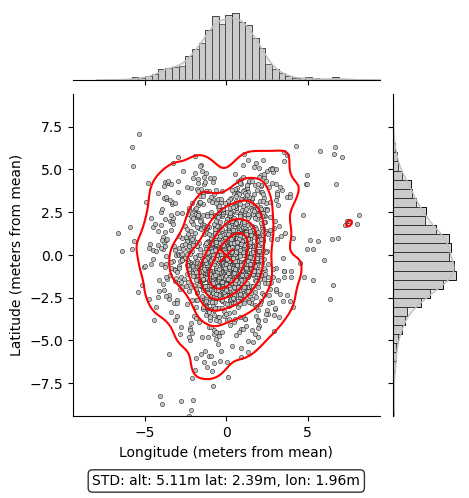
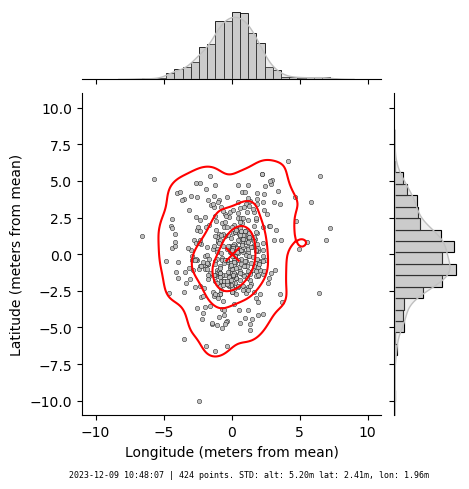
readme and images

diff --git a/README.md b/README.md
@@ -1,21 +1,41 @@
 # GPS Data Visualization Script
 
-This script reads GPS data from a JSON file generated by `gpsd` and `gpspipe`. It then generates a joint plot using Seaborn to visualize the latitude, longitude, and altitude changes. Additionally, it calculates and displays statistics on the plot.
+Scripts to analyze GPS JSON data generated by `gpsd` and `gpspipe` and make plots of position changes and satellite visibility over time. This is a modern alternative for [`gpsprof`](https://github.com/andersson/gpsd/blob/master/gpsprof).
 
-![sample_plot](plot-lat-lon.png)
+## Sample output
+
+
+|                          |                              |
+| :----------------------: | :--------------------------: |
+|   `gpsjsonplot-pos.py`   |                              |
+|  ![](plot-lat-lon.png)   |  ![](plot-lat-lon-200.png)   |
+|  `gpsjsonplot-sats.py`   |                              |
+| ![](plot-sattelites.png) | ![](plot-sattelites-200.png) |
+
+
 
 ## Prerequisites
 
-- Python 3.x
-- Required Python packages: `json`, `matplotlib`, `numpy`, `seaborn`
+- `gpsd` up and running; `gpspipe` or other source of json data
+- Python 3.x with python packages: `json`, `matplotlib`, `numpy`, `seaborn`
 
 ## Usage
 
 ```bash
 # get some samples from gpsd
 gpspipe -v -w -n 10 > input.json
-# make a plot using every 10th data point
-python gpsjsonplot.py --json input.json --outfile output.png --every 10
+
+# make a plot of position changes using every 100th data point with contour lines
+python gpsjsonplot-pos.py --json  input.json --outfile plot-lat-lon.png --every 100 --contour 4
+
+# the same but for all data points and without contours lines
+python gpsjsonplot-pos.py --json  input.json --outfile plot-lat-lon2.png --every 1 --contour 0
+
+# plot satellites, every 10th data point
+python gpsjsonplot-sats.py --json input.json --outfile plot-sattelites.png --every 10
+
+# plot satellites, all points
+python gpsjsonplot-sats.py --json input.json --outfile plot-sattelites2.png --every 1
 ```
 
 
@@ -23,15 +43,3 @@ python gpsjsonplot.py --json input.json --outfile output.png --every 10
 -    `--outfile`: Path to the output image file where the plot will be saved.
 -    `--every`: Optional parameter to select every n-th line from the input JSON file (default is 10).
 -    `--contour`: Optional: number of contour lines. 0 - disables it.
-
-## Script Overview
-
-1.    Parses command line arguments using argparse.
-1.    Reads every n-th line of JSON data from the specified file, filtering by "class":"TPV".
-1.    Extracts relevant data (latitude, longitude, altitude).
-1.    Calculates mean latitude and longitude.
-1.    Converts latitude and longitude to meters from the mean.
-1.    Calculates statistics like mean and standard deviation for altitude, latitude, and longitude.
-1.    Generates a joint plot using Seaborn with a scatter plot and kernel density estimates.
-1.    Displays mean location as a red cross and statistics
-1.    Saves the plot as an image file.
